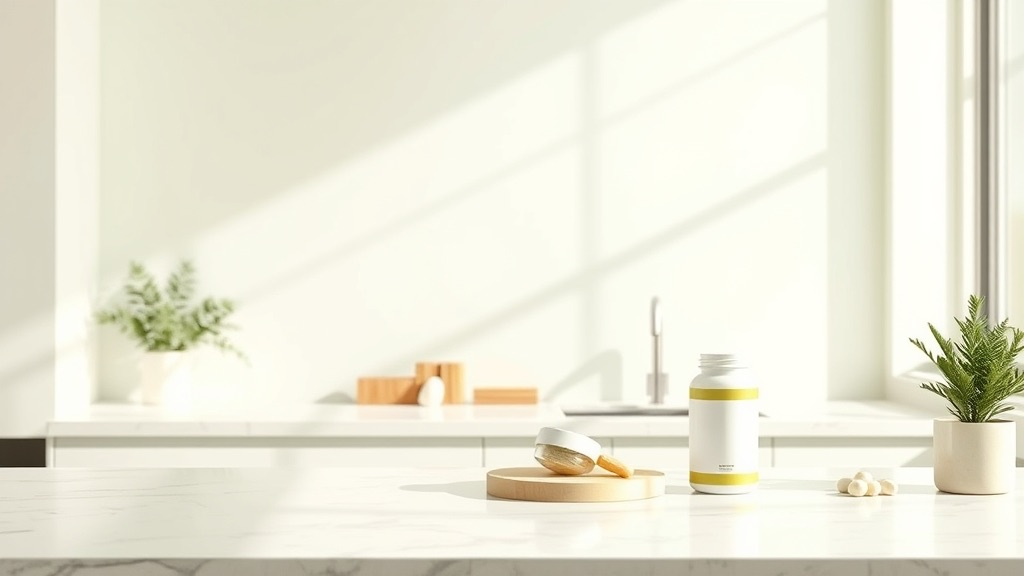
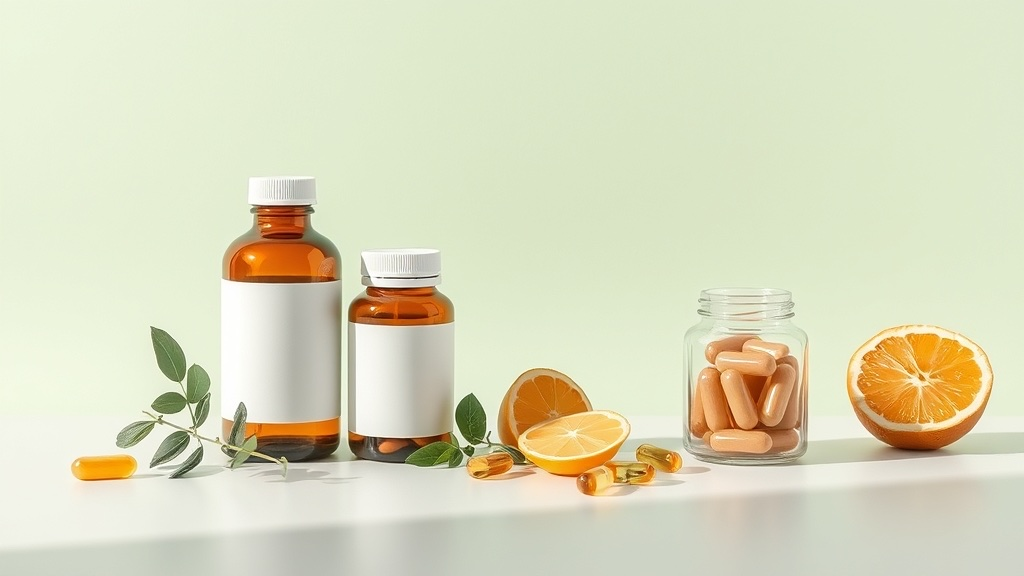
Deploy premiumvitamin redesign mockup

diff --git a/brands/premiumvitamin/index.html b/brands/premiumvitamin/index.html
@@ -86,11 +86,6 @@
       <p class="s-hero__trust">★ 4.9/5 &nbsp;·&nbsp; 2,300+ reviews &nbsp;·&nbsp; Free US shipping over $50</p>
     </div>
 
-    <!-- Float: capsule art (desktop only, base.css hides at ≤1000px) -->
-    <div class="float float-caps" style="--rot:-6deg">
-      <img src="assets/float-capsules.png" alt="" aria-hidden="true">
-    </div>
-
   </div><!-- /.wrap -->
 </section>
 
@@ -540,7 +535,7 @@
           preload="metadata"
           poster="https://premiumvitamin.com/cdn/shop/files/Multi-collagen-peptides-review1.jpg?v=1747426799"
         >
-          <source src="https://premiumvitamin.com/cdn/shop/videos/c/vp/3c23a63f065f4f03b9de4c50d606b4ae/3c23a63f065f4f03b9de4c50d606b4ae.HD-720p-1.6Mbps-40589011.mp4" type="video/mp4">
+          <source src="https://premiumvitamin.com/cdn/shop/videos/c/vp/cf2769848ea84be8a777596c18ae9e8f/cf2769848ea84be8a777596c18ae9e8f.HD-720p-1.6Mbps-47726881.mp4" type="video/mp4">
         </video>
         <div class="s-video__toggle" aria-hidden="true">
           <svg xmlns="http://www.w3.org/2000/svg" viewBox="0 0 24 24" fill="currentColor" width="22" height="22">
@@ -566,7 +561,7 @@
           preload="metadata"
           poster="https://premiumvitamin.com/cdn/shop/files/Multi-collagen-peptides-review2.jpg?v=1747425929"
         >
-          <source src="https://premiumvitamin.com/cdn/shop/videos/c/vp/3c23a63f065f4f03b9de4c50d606b4ae/3c23a63f065f4f03b9de4c50d606b4ae.HD-720p-1.6Mbps-40589011.mp4" type="video/mp4">
+          <source src="https://premiumvitamin.com/cdn/shop/videos/c/vp/e0c2d644ae8b41ccbfbfea474fdaebdb/e0c2d644ae8b41ccbfbfea474fdaebdb.HD-720p-1.6Mbps-47726340.mp4" type="video/mp4">
         </video>
         <div class="s-video__toggle" aria-hidden="true">
           <svg xmlns="http://www.w3.org/2000/svg" viewBox="0 0 24 24" fill="currentColor" width="22" height="22">
@@ -592,7 +587,7 @@
           preload="metadata"
           poster="https://premiumvitamin.com/cdn/shop/files/vitamin-d3-thumbnail.png?v=1734606138"
         >
-          <source src="https://premiumvitamin.com/cdn/shop/videos/c/vp/3c23a63f065f4f03b9de4c50d606b4ae/3c23a63f065f4f03b9de4c50d606b4ae.HD-720p-1.6Mbps-40589011.mp4" type="video/mp4">
+          <source src="https://premiumvitamin.com/cdn/shop/videos/c/vp/ee729e76559b4066994aa88f8a063fbc/ee729e76559b4066994aa88f8a063fbc.HD-720p-1.6Mbps-39902955.mp4" type="video/mp4">
         </video>
         <div class="s-video__toggle" aria-hidden="true">
           <svg xmlns="http://www.w3.org/2000/svg" viewBox="0 0 24 24" fill="currentColor" width="22" height="22">

diff --git a/brands/premiumvitamin/styles.css b/brands/premiumvitamin/styles.css
@@ -233,14 +233,6 @@
   line-height: 1.4;
 }
 
-/* Float — bleeding off bottom-right edge */
-.s-hero .float-caps {
-  width: clamp(260px, 22vw, 380px);
-  bottom: -60px;
-  right: -40px;
-  top: auto;
-}
-
 /* ── Mobile ≤ 900px ──────────────────────────────────────────────── */
 @media (max-width: 900px) {
 